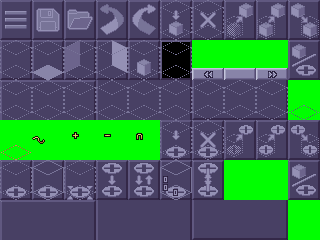
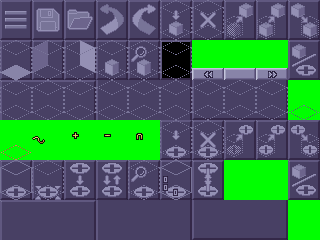
Find/replace hooked up to main UI, shifted buttons around

diff --git a/src/Battlescape/MapEditorState.cpp b/src/Battlescape/MapEditorState.cpp
@@ -135,16 +135,16 @@ MapEditorState::MapEditorState(MapEditor *editor) : _firstInit(true), _isMouseSc
 	{
 		icons->getFrame(i + 10)->blitNShade(_iconsUpperRight, i * 32, 0);
 	}
-	_btnSelectedTile = new BattlescapeButton(32, 40, screenWidth - 160, 0);
-	_btnSelectedTile->setColor(232);
-	_btnTileFilterGround = new BattlescapeButton(32, 40, screenWidth - 128, 0);
+	_btnTileFilterGround = new BattlescapeButton(32, 40, screenWidth - 160, 0);
 	_btnTileFilterGround->setColor(232);
-	_btnTileFilterWestWall = new BattlescapeButton(32, 40, screenWidth - 96, 0);
+	_btnTileFilterWestWall = new BattlescapeButton(32, 40, screenWidth - 128, 0);
 	_btnTileFilterWestWall->setColor(232);
-	_btnTileFilterNorthWall = new BattlescapeButton(32, 40, screenWidth - 64, 0);
+	_btnTileFilterNorthWall = new BattlescapeButton(32, 40, screenWidth - 96, 0);
 	_btnTileFilterNorthWall->setColor(232);
-	_btnTileFilterObject = new BattlescapeButton(32, 40, screenWidth - 32, 0);
+	_btnTileFilterObject = new BattlescapeButton(32, 40, screenWidth - 64, 0);
 	_btnTileFilterObject->setColor(232);
+	_btnFindTile = new BattlescapeButton(32, 40, screenWidth - 32, 0);
+	_btnFindTile->setColor(232);
 
 	_tileFilters[O_FLOOR] = _btnTileFilterGround;
 	_tileFilters[O_WESTWALL] = _btnTileFilterWestWall;
@@ -229,16 +229,16 @@ MapEditorState::MapEditorState(MapEditor *editor) : _firstInit(true), _isMouseSc
 	{
 		icons->getFrame(i + 40)->blitNShade(_iconsUpperRightNodes, i * 32, 0);
 	}
-	_btnSelectedNode = new BattlescapeButton(32, 40, screenWidth - 160, 0);
-	_btnSelectedNode->setColor(232);
-	_btnNodeFilterSelect = new BattlescapeButton(32, 40, screenWidth - 128, 0);
+	_btnNodeFilterSelect = new BattlescapeButton(32, 40, screenWidth - 160, 0);
 	_btnNodeFilterSelect->setColor(232);
-	_btnNodeFilterMove = new BattlescapeButton(32, 40, screenWidth - 96, 0);
+	_btnNodeFilterMove = new BattlescapeButton(32, 40, screenWidth - 128, 0);
 	_btnNodeFilterMove->setColor(232);
-	_btnNodeFilterOneWayConnect = new BattlescapeButton(32, 40, screenWidth - 64, 0);
+	_btnNodeFilterOneWayConnect = new BattlescapeButton(32, 40, screenWidth - 96, 0);
 	_btnNodeFilterOneWayConnect->setColor(232);
-	_btnNodeFilterTwoWayConnect = new BattlescapeButton(32, 40, screenWidth - 32, 0);
+	_btnNodeFilterTwoWayConnect = new BattlescapeButton(32, 40, screenWidth - 64, 0);
 	_btnNodeFilterTwoWayConnect->setColor(232);
+	_btnFindNode = new BattlescapeButton(32, 40, screenWidth - 32, 0);
+	_btnFindNode->setColor(232);
 
 	_nodeFilterMode = _btnNodeFilterSelect;
 	//_btnNodeFilterSelect->setGroup(&_nodeFilterMode); // this one will have group set when first switching to route mode
@@ -246,7 +246,6 @@ MapEditorState::MapEditorState(MapEditor *editor) : _firstInit(true), _isMouseSc
 	_btnNodeFilterOneWayConnect->setGroup(&_nodeFilterMode);
 	_btnNodeFilterTwoWayConnect->setGroup(&_nodeFilterMode);
 
-	//// TODO: sprites for the buttons
 	_iconsUpperLeftNodes = new InteractiveSurface(64, 40, 0, 0);
 	icons->getFrame(45)->blitNShade(_iconsUpperLeftNodes, 0, 0);
 	icons->getFrame(46)->blitNShade(_iconsUpperLeftNodes, 32, 0);
@@ -324,11 +323,11 @@ MapEditorState::MapEditorState(MapEditor *editor) : _firstInit(true), _isMouseSc
 	add(_btnCut, "", "battlescape", _iconsLowerRight);
 	add(_btnCopy, "", "battlescape", _iconsLowerRight);
 	add(_btnPaste, "", "battlescape", _iconsLowerRight);
-	add(_btnSelectedTile, "", "battlescape", _iconsUpperRight);
 	add(_btnTileFilterGround, "", "battlescape", _iconsUpperRight);
 	add(_btnTileFilterWestWall, "", "battlescape", _iconsUpperRight);
 	add(_btnTileFilterNorthWall, "", "battlescape", _iconsUpperRight);
 	add(_btnTileFilterObject, "", "battlescape", _iconsUpperRight);
+	add(_btnFindTile, "", "battlescape", _iconsUpperRight);
 	add(_backgroundTileSelection);
 	add(_backgroundTileSelectionNavigation);
 	add(_tileSelection, "", "battlescape", _backgroundTileSelection);
@@ -353,11 +352,11 @@ MapEditorState::MapEditorState(MapEditor *editor) : _firstInit(true), _isMouseSc
 	add(_btnNodeCut, "", "battlescape", _iconsLowerRightNodes);
 	add(_btnNodeCopy, "", "battlescape", _iconsLowerRightNodes);
 	add(_btnNodePaste, "", "battlescape", _iconsLowerRightNodes);
-	add(_btnSelectedNode, "", "battlescape", _iconsUpperRightNodes);
 	add(_btnNodeFilterSelect, "", "battlescape", _iconsUpperRightNodes);
 	add(_btnNodeFilterMove, "", "battlescape", _iconsUpperRightNodes);
 	add(_btnNodeFilterOneWayConnect, "", "battlescape", _iconsUpperRightNodes);
 	add(_btnNodeFilterTwoWayConnect, "", "battlescape", _iconsUpperRightNodes);
+	add(_btnFindNode, "", "battlescape", _iconsUpperRightNodes);
 	add(_btnRouteInformation, "", "battlescape", _iconsUpperLeftNodes);
 	add(_btnRouteConnections, "", "battlescape", _iconsUpperLeftNodes);
 	add(_panelRouteInformation);
@@ -499,12 +498,6 @@ MapEditorState::MapEditorState(MapEditor *editor) : _firstInit(true), _isMouseSc
 	_btnPaste->onMouseIn((ActionHandler)&MapEditorState::txtTooltipIn);
 	_btnPaste->onMouseOut((ActionHandler)&MapEditorState::txtTooltipOut);
 
-	//_btnSelectedTile->onMouseClick((ActionHandler)&MapEditorState::btnSelectedTileClick);
-	//_btnSelectedTile->onKeyboardPress((ActionHandler)&MapEditorState::btnSelectedTileClick, SDLK_v); // change to options
-	_btnSelectedTile->setTooltip("STR_TOOLTIP_SELECTED_TILE");
-	_btnSelectedTile->onMouseIn((ActionHandler)&MapEditorState::txtTooltipIn);
-	_btnSelectedTile->onMouseOut((ActionHandler)&MapEditorState::txtTooltipOut);
-
 	_btnTileFilterGround->onMouseClick((ActionHandler)&MapEditorState::btnTileFilterClick);
 	_btnTileFilterGround->onKeyboardPress((ActionHandler)&MapEditorState::btnTileFilterClick, SDLK_1); // change to options
 	_btnTileFilterGround->setTooltip("STR_TOOLTIP_TILE_GROUND");
@@ -528,6 +521,12 @@ MapEditorState::MapEditorState(MapEditor *editor) : _firstInit(true), _isMouseSc
 	_btnTileFilterObject->setTooltip("STR_TOOLTIP_TILE_OBJECT");
 	_btnTileFilterObject->onMouseIn((ActionHandler)&MapEditorState::txtTooltipIn);
 	_btnTileFilterObject->onMouseOut((ActionHandler)&MapEditorState::txtTooltipOut);
+
+	_btnFindTile->onMouseClick((ActionHandler)&MapEditorState::btnFindReplaceClick);
+	//_btnFindTile->onKeyboardPress((ActionHandler)&MapEditorState::btnFindReplaceClick, SDLK_f); // change to options
+	_btnFindTile->setTooltip("STR_TOOLTIP_FIND_TILES");
+	_btnFindTile->onMouseIn((ActionHandler)&MapEditorState::txtTooltipIn);
+	_btnFindTile->onMouseOut((ActionHandler)&MapEditorState::txtTooltipOut);
 
 	//_tileSelection->setColor(232); // Goal of background color 235
 	_tileSelection->onMouseClick((ActionHandler)&MapEditorState::tileSelectionClick);
@@ -602,8 +601,6 @@ MapEditorState::MapEditorState(MapEditor *editor) : _firstInit(true), _isMouseSc
 	_iconsUpperLeftNodes->onMouseOut((ActionHandler)&MapEditorState::mouseOutIcons);
 	_iconsUpperLeftNodes->setVisible(false);
 
-	_btnSelectedNode->setVisible(false);
-
 	_btnNodeNew->onMouseClick((ActionHandler)&MapEditorState::btnNodeNewClick);
 	//_btnNodeNew->onKeyboardPress((ActionHandler)&MapEditorState::btnNodeNewClick, SDLK_1); // change to options
 	_btnNodeNew->setTooltip("STR_TOOLTIP_NODE_NEW");
@@ -663,6 +660,13 @@ MapEditorState::MapEditorState(MapEditor *editor) : _firstInit(true), _isMouseSc
 	_btnNodeFilterTwoWayConnect->onMouseIn((ActionHandler)&MapEditorState::txtTooltipIn);
 	_btnNodeFilterTwoWayConnect->onMouseOut((ActionHandler)&MapEditorState::txtTooltipOut);
 	_btnNodeFilterTwoWayConnect->setVisible(false);
+
+	_btnFindNode->onMouseClick((ActionHandler)&MapEditorState::btnFindReplaceClick);
+	//_btnFindNode->onKeyboardPress((ActionHandler)&MapEditorState::btnFindReplaceClick, SDLK_f); // change to options
+	_btnFindNode->setTooltip("STR_TOOLTIP_FIND_NODES");
+	_btnFindNode->onMouseIn((ActionHandler)&MapEditorState::txtTooltipIn);
+	_btnFindNode->onMouseOut((ActionHandler)&MapEditorState::txtTooltipOut);
+	_btnFindNode->setVisible(false);
 
 	//_btnRouteInformation->setText(tr("STR_INFO"));
 	_btnRouteInformation->onMouseClick((ActionHandler)&MapEditorState::toggleNodeInfoPanel);
@@ -1914,6 +1918,22 @@ void MapEditorState::btnTileFilterClick(Action *action)
 }
 
 /**
+ * Handles pressing the find and replace buttons
+ * @param action Pointer to an action.
+ */
+void MapEditorState::btnFindReplaceClick(Action *action)
+{
+	if (getRouteMode())
+	{
+		_game->pushState(new MapEditorFindNodeState(this));
+	}
+	else
+	{
+		_game->pushState(new MapEditorFindTileState(this, _editor->getSelectedObject(), _selectedTileIndex));
+	}
+}
+
+/**
  * Switches between tile and route mode
  * @param action Pointer to an action.
  */
@@ -2300,14 +2320,7 @@ inline void MapEditorState::handle(Action *action)
 				}
 				else if (key == SDLK_f && ctrlPressed) // change f to options, pushstate to button click
 				{
-					if (getRouteMode())
-					{
-						_game->pushState(new MapEditorFindNodeState(this));
-					}
-					else
-					{
-						_game->pushState(new MapEditorFindTileState(this, _editor->getSelectedObject(), _selectedTileIndex));
-					}
+					btnFindReplaceClick(action);
 				}
 
 				// quick save and quick load
@@ -2477,7 +2490,7 @@ void MapEditorState::toggleRouteMode(Action *action)
 	_btnCopy->setVisible(!getRouteMode());
 	_btnPaste->setVisible(!getRouteMode());
 	_iconsUpperRight->setVisible(!getRouteMode());
-	_btnSelectedTile->setVisible(!getRouteMode());
+	_btnFindTile->setVisible(!getRouteMode());
 	_btnTileFilterGround->setVisible(!getRouteMode());
 	_btnTileFilterNorthWall->setVisible(!getRouteMode());
 	_btnTileFilterWestWall->setVisible(!getRouteMode());
@@ -2497,7 +2510,7 @@ void MapEditorState::toggleRouteMode(Action *action)
 	_btnNodeCopy->setVisible(getRouteMode());
 	_btnNodePaste->setVisible(getRouteMode());
 	_iconsUpperRightNodes->setVisible(getRouteMode());
-	_btnSelectedNode->setVisible(getRouteMode());
+	_btnFindNode->setVisible(getRouteMode());
 	_btnNodeFilterSelect->setVisible(getRouteMode());
 	_btnNodeFilterMove->setVisible(getRouteMode());
 	_btnNodeFilterOneWayConnect->setVisible(getRouteMode());

diff --git a/src/Battlescape/MapEditorState.h b/src/Battlescape/MapEditorState.h
@@ -56,7 +56,7 @@ private:
     BattlescapeButton *_btnOptions, *_btnSave, *_btnLoad, *_btnUndo, *_btnRedo;
 	BattlescapeButton *_btnFill, *_btnClear, *_btnCut, *_btnCopy, *_btnPaste;
 	BattlescapeButton *_tileEditMode;
-	BattlescapeButton *_btnSelectedTile, *_btnTileFilterGround, *_btnTileFilterWestWall, *_btnTileFilterNorthWall, *_btnTileFilterObject;
+	BattlescapeButton *_btnTileFilterGround, *_btnTileFilterWestWall, *_btnTileFilterNorthWall, *_btnTileFilterObject, *_btnFindTile;
 	BattlescapeButton *_tileObjectSelected;
 	std::map<TilePart, BattlescapeButton*> _tileFilters;
 	InteractiveSurface *_backgroundTileSelection, *_tileSelection;
@@ -92,7 +92,7 @@ private:
 	InteractiveSurface *_iconsLowerRightNodes, *_iconsUpperRightNodes, *_iconsUpperLeftNodes;
 	BattlescapeButton *_nodeEditMode, *_nodeFilterMode;
 	BattlescapeButton *_btnNodeNew, *_btnNodeDelete, *_btnNodeCut, *_btnNodeCopy, *_btnNodePaste;
-	BattlescapeButton *_btnSelectedNode, *_btnNodeFilterSelect, *_btnNodeFilterMove, *_btnNodeFilterOneWayConnect, *_btnNodeFilterTwoWayConnect;
+	BattlescapeButton *_btnNodeFilterSelect, *_btnNodeFilterMove, *_btnNodeFilterOneWayConnect, *_btnNodeFilterTwoWayConnect, *_btnFindNode;
 	BattlescapeButton *_btnRouteInformation, *_btnRouteConnections;
 	InteractiveSurface *_panelRouteInformation;
 	Text *_txtNodeID, *_txtNodeType, *_txtNodeRank, *_txtNodeFlag, *_txtNodePriority, *_txtNodeReserved, *_txtNodeLinks;
@@ -147,6 +147,8 @@ public:
 	void btnPasteClick(Action *action);
 	/// Handler for pressing the tile filter buttons.
 	void btnTileFilterClick(Action *action);
+	/// Handler for pressing the find and replace buttons.
+	void btnFindReplaceClick(Action *action);
 	/// Handler for clicking the mode switch button.
 	void btnModeSwitchClick(Action *action);
 	/// Handler for pressing the node new button.
